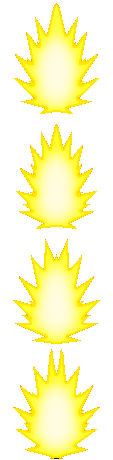
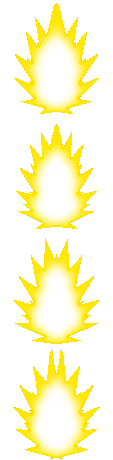
AURA(s)!

diff --git a/Projectiles/Auras/BaseAuraProj.cs b/Projectiles/Auras/BaseAuraProj.cs
@@ -32,7 +32,6 @@ namespace DBZMOD.Projectiles.Auras
             projectile.netUpdate = true;
             AuraOffset.Y = -30;
 			projectile.light = 1f;
-			projectile.alpha = 50;
         }
         public override void PostAI()
         {
@@ -60,7 +59,7 @@ namespace DBZMOD.Projectiles.Auras
                 projectile.rotation = 0;
             }
             projectile.frameCounter++;
-            if (projectile.frameCounter > 2)
+            if (projectile.frameCounter > 10)
             {
                 projectile.frame++;
                 projectile.frameCounter = 0;
@@ -80,12 +79,18 @@ namespace DBZMOD.Projectiles.Auras
             }
             base.AI();
         }
-		public override void PostDraw(SpriteBatch spriteBatch, Color lightColor)
-		{
+		
+		public override bool PreDraw(SpriteBatch spriteBatch, Color lightColor)
+        {
 			spriteBatch.End();
             spriteBatch.Begin(SpriteSortMode.Texture, BlendState.Additive);
+            return base.PreDraw(spriteBatch, lightColor);
+        }
+
+        public override void PostDraw(SpriteBatch spriteBatch, Color lightColor)
+        {
             spriteBatch.End();
             spriteBatch.Begin();
-		}
+        }
     }
 }

diff --git a/Projectiles/Auras/SSJ2AuraProj.cs b/Projectiles/Auras/SSJ2AuraProj.cs
@@ -18,12 +18,12 @@ namespace DBZMOD.Projectiles.Auras
 
         public override void SetStaticDefaults()
         {
-            Main.projFrames[projectile.type] = 3;
+            Main.projFrames[projectile.type] = 4;
         }
         public override void SetDefaults()
         {
-            projectile.width = 95;
-            projectile.height = 89;
+            projectile.width = 113;
+            projectile.height = 115;
             projectile.aiStyle = 0;
             projectile.timeLeft = 10;
             projectile.friendly = true;
@@ -31,12 +31,10 @@ namespace DBZMOD.Projectiles.Auras
             projectile.ignoreWater = true;
             projectile.penetrate = -1;
             projectile.damage = 0;
-            projectile.alpha = 20;
             BaseAuraTimer = 5;
-            AuraOffset.Y = -52;
-            ScaleExtra = 0.3f;
+            AuraOffset.Y = -30;
             IsSSJAura = true;
-			projectile.light = 1f;
+            projectile.light = 1f;
         }
         public override void AI()
         {

diff --git a/Projectiles/Auras/SSJ3AuraProj.cs b/Projectiles/Auras/SSJ3AuraProj.cs
@@ -18,12 +18,12 @@ namespace DBZMOD.Projectiles.Auras
 
         public override void SetStaticDefaults()
         {
-            Main.projFrames[projectile.type] = 3;
+            Main.projFrames[projectile.type] = 4;
         }
         public override void SetDefaults()
         {
-            projectile.width = 95;
-            projectile.height = 89;
+            projectile.width = 113;
+            projectile.height = 115;
             projectile.aiStyle = 0;
             projectile.timeLeft = 10;
             projectile.friendly = true;
@@ -31,12 +31,10 @@ namespace DBZMOD.Projectiles.Auras
             projectile.ignoreWater = true;
             projectile.penetrate = -1;
             projectile.damage = 0;
-            projectile.alpha = 20;
             BaseAuraTimer = 5;
-            AuraOffset.Y = -75;
+            AuraOffset.Y = -30;
             IsSSJAura = true;
-            ScaleExtra = 0.7f;
-			projectile.light = 1f;
+            projectile.light = 1f;
         }
         public override void AI()
         {

diff --git a/Projectiles/Auras/LSSJ2AuraProj.cs b/Projectiles/Auras/LSSJ2AuraProj.cs
@@ -18,12 +18,12 @@ namespace DBZMOD.Projectiles.Auras
 
         public override void SetStaticDefaults()
         {
-            Main.projFrames[projectile.type] = 3;
+            Main.projFrames[projectile.type] = 4;
         }
         public override void SetDefaults()
         {
-            projectile.width = 95;
-            projectile.height = 89;
+            projectile.width = 113;
+            projectile.height = 115;
             projectile.aiStyle = 0;
             projectile.timeLeft = 10;
             projectile.friendly = true;
@@ -31,10 +31,8 @@ namespace DBZMOD.Projectiles.Auras
             projectile.ignoreWater = true;
             projectile.penetrate = -1;
             projectile.damage = 0;
-            projectile.alpha = 20;
             BaseAuraTimer = 5;
-            AuraOffset.Y = -75;
-            ScaleExtra = 0.7f;
+            AuraOffset.Y = -30;
             IsSSJAura = true;
 			projectile.light = 1f;
         }

diff --git a/Projectiles/Auras/LSSJAuraProj.cs b/Projectiles/Auras/LSSJAuraProj.cs
@@ -18,12 +18,12 @@ namespace DBZMOD.Projectiles.Auras
 
         public override void SetStaticDefaults()
         {
-            Main.projFrames[projectile.type] = 3;
+            Main.projFrames[projectile.type] = 4;
         }
         public override void SetDefaults()
         {
-            projectile.width = 95;
-            projectile.height = 89;
+            projectile.width = 113;
+            projectile.height = 115;
             projectile.aiStyle = 0;
             projectile.timeLeft = 10;
             projectile.friendly = true;
@@ -31,10 +31,8 @@ namespace DBZMOD.Projectiles.Auras
             projectile.ignoreWater = true;
             projectile.penetrate = -1;
             projectile.damage = 0;
-            projectile.alpha = 20;
             BaseAuraTimer = 5;
-            AuraOffset.Y = -55;
-            ScaleExtra = 0.3f;
+            AuraOffset.Y = -30;
             IsSSJAura = true;
 			projectile.light = 1f;
         }

diff --git a/Projectiles/Auras/SSJ1AuraProj.cs b/Projectiles/Auras/SSJ1AuraProj.cs
@@ -30,7 +30,6 @@ namespace DBZMOD.Projectiles.Auras
             projectile.ignoreWater = true;
             projectile.penetrate = -1;
             projectile.damage = 0;
-            projectile.alpha = 20;
             BaseAuraTimer = 5;
             AuraOffset.Y = -30;
             IsSSJAura = true;
